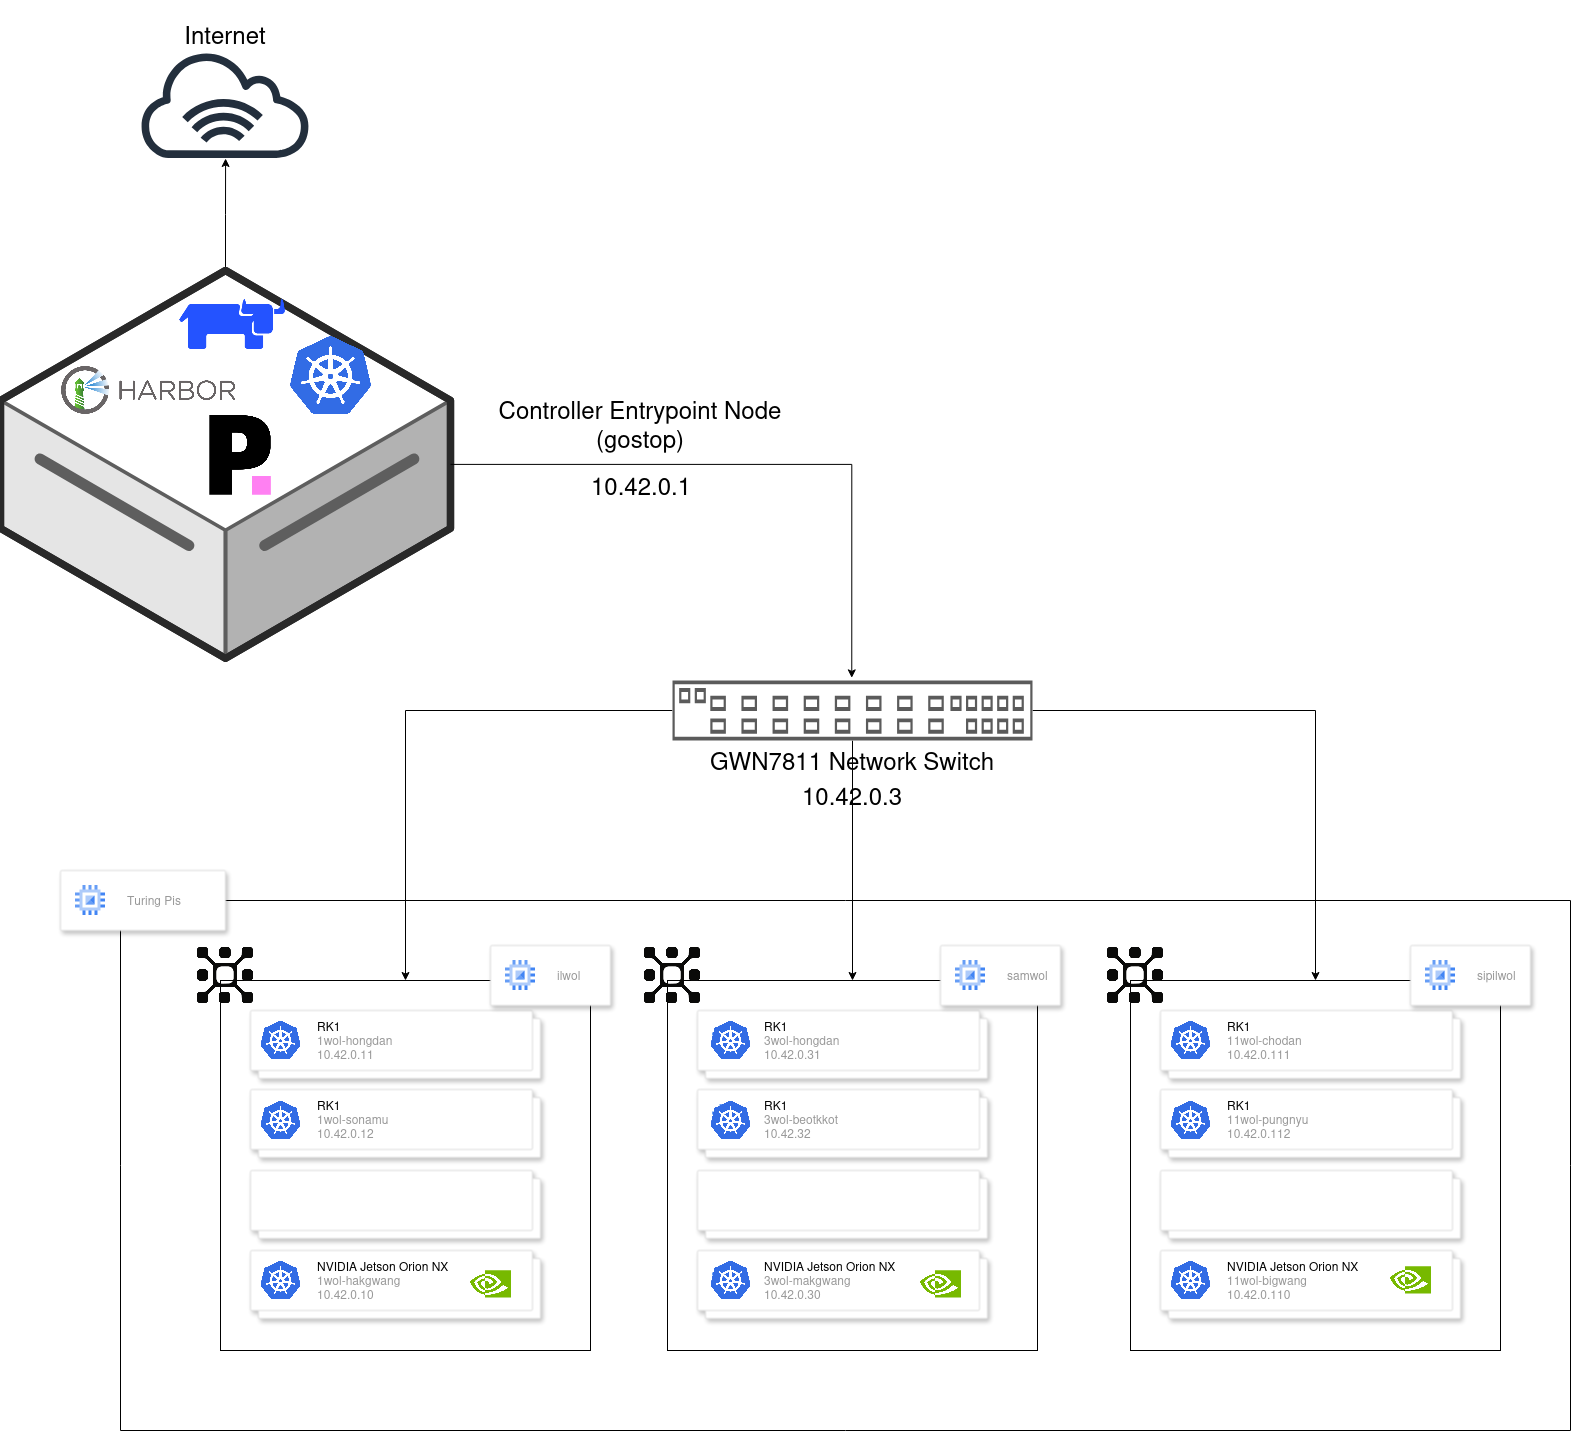
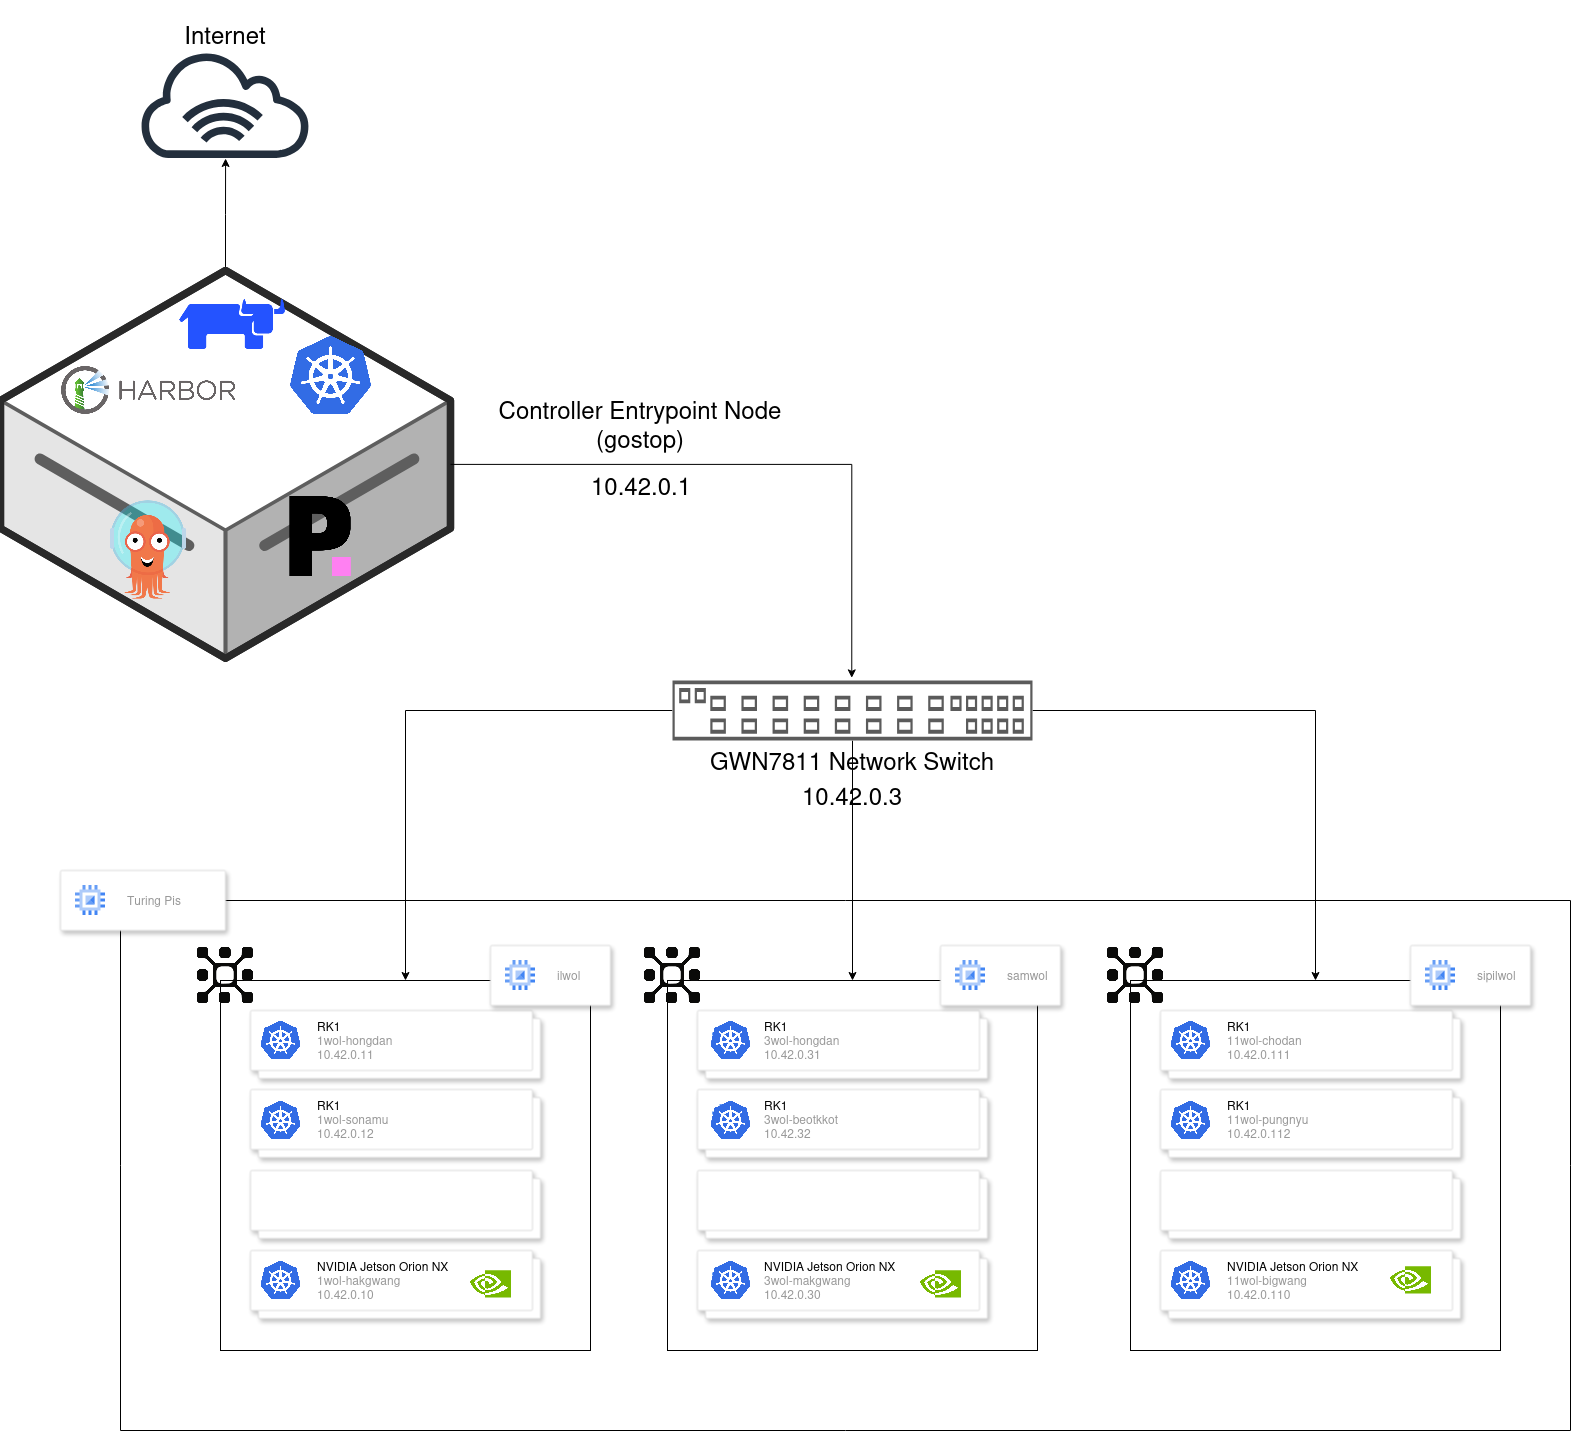
feat: Add echoing of k3s token on create-user, add funny squid to diagram, update template workflow

Changed region(s): [[0.0623, 0.2767, 0.2182, 0.4305]]

diff --git a/scripts/user_common.py b/scripts/user_common.py
@@ -388,7 +388,12 @@ def agent_address(port: int) -> str:
     return f"{socket.getfqdn()}:{port}"
 
 
-def print_resource_summary(state: dict, *, include_password: Optional[str] = None):
+def print_resource_summary(
+    state: dict,
+    *,
+    include_password: Optional[str] = None,
+    include_k3s_token: Optional[str] = None,
+):
     username = state.get("username", "?")
     print("\nCreated/managed resources")
     print("-------------------------")
@@ -420,3 +425,10 @@ def print_resource_summary(state: dict, *, include_password: Optional[str] = Non
     if include_password is not None:
         print(f"\nGenerated password:   {include_password}")
         print("Store this securely; it is not saved by these scripts.")
+    if include_k3s_token is not None:
+        print(f"\nK3s token:           {include_k3s_token}")
+        print(f"Argo UI login:       Bearer {include_k3s_token}")
+        print(
+            "Share this token securely; it grants the user's Kubernetes "
+            "service-account permissions."
+        )

diff --git a/docs/DEPLOYING_ARGO_WORKFLOW.md b/docs/DEPLOYING_ARGO_WORKFLOW.md
@@ -3,7 +3,8 @@
 This example installs a shared `ClusterWorkflowTemplate`, submits it into a
 user namespace, and starts a small Flask API that returns `Hello <message>`.
 The API runs for three minutes, exits successfully, and Argo removes its
-temporary Service and completed Pod.
+temporary Service. Completed workflow Pods remain available for log streaming
+for 30 seconds after the workflow finishes and are then removed automatically.
 
 ## Steps
 
@@ -91,8 +92,10 @@ Lifetime: 180 seconds
 ```
 
 Run the printed `curl` command from another terminal before the lifetime ends.
-After three minutes, Flask exits and the workflow removes its Service and Pod.
-The Workflow record remains with status `Succeeded`.
+After three minutes, Flask exits and the workflow removes its Service. Argo
+keeps the workflow Pods for another 30 seconds so the CLI can finish streaming
+their logs, then removes them. The Workflow record remains with status
+`Succeeded`.
 
 The sysadmin Argo installation assigns small default CPU and memory resources
 to Argo's generated executor containers. The example also assigns resources to

diff --git a/scripts/README.md b/scripts/README.md
@@ -47,7 +47,8 @@ Creates a complete managed user.
 - Adds the user's namespace to the Rancher project.
 - Creates the user's Portainer account.
 - Registers the user's Portainer Agent environment.
-- Prints all created resources and the generated password.
+- Prints all created resources, the generated password, the user's K3s token,
+  and a copy-ready `Bearer <token>` login for the Argo UI.
 
 Before creating the first user, install the system-wide kubeconfig profile from
 the repository root. This is a one-time host setup step:
@@ -63,6 +64,11 @@ Then create the user:
 ```bash
 sudo ./scripts/create-user -u bob -q 5GB
 ```
+
+The final output contains credentials. Share it securely. The K3s token is the
+same service-account token stored in the user's `~/.kube/config` and in their
+namespace's `<username>-user-token` Secret; `create-user` does not save another
+copy in its state file.
 
 By default, each stage shows a rolling window containing the latest four raw
 log lines. If a stage fails, its complete output is printed as a labeled log

diff --git a/README.md b/README.md
@@ -270,7 +270,9 @@ architecture.
 
 This will make accounts on the services above, automatically. On first login,
 the installed system-wide profile selects the user's namespace-scoped
-`~/.kube/config`.
+`~/.kube/config`. The command's final summary includes the generated password,
+the user's K3s token, and a copy-ready `Bearer <token>` value for logging in to
+the Argo UI. Treat this output as sensitive.
 
 In the event of failures, you can revert the changes:
 
